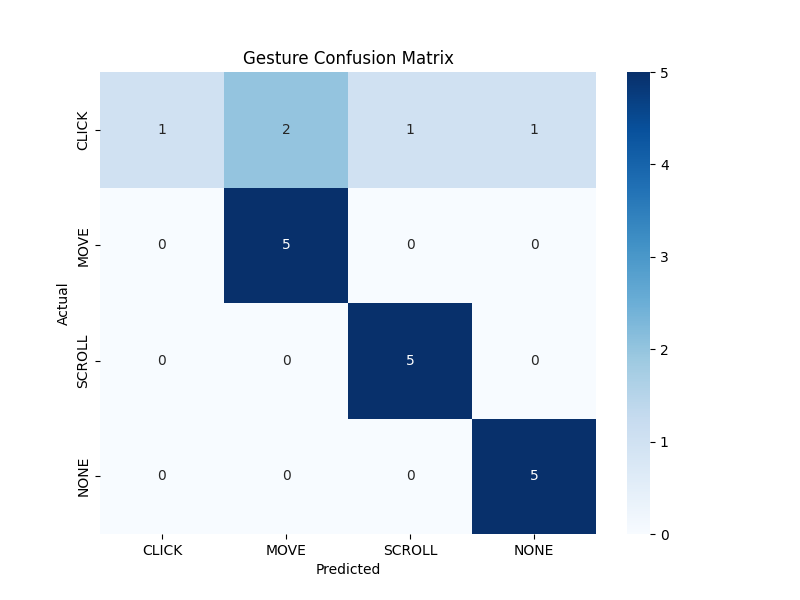
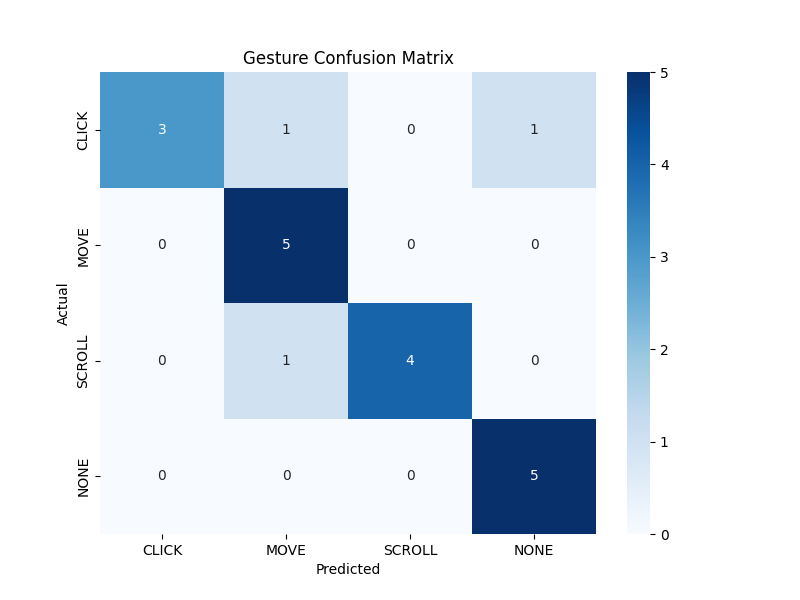
Refactor gesture controls: replace finger-fold clicks with three-finger left click and index right click, improve detection stability

Changed region(s): [[0.125, 0.12, 0.5938, 0.33], [0.2812, 0.48, 0.5938, 0.72]]

diff --git a/Gesture_Controller.py b/Gesture_Controller.py
@@ -45,6 +45,7 @@ class Gest(IntEnum):
     # Extra Mappings
     V_GEST = 33
     TWO_FINGER_CLOSED = 34
+    THREE_FINGER = INDEX + MID + RING   # 8 + 4 + 2 = 14
     PINCH_MAJOR = 35
     PINCH_MINOR = 36
 
@@ -464,7 +465,7 @@ class Controller:
             return
 
         # 2. POSITION CONTROL
-        if gesture not in [Gest.PALM, Gest.THUMB]:
+        if gesture in [Gest.V_GEST, Gest.FIST]:
             x,y = Controller.get_position(hand_result)
 
         # flag reset
@@ -490,16 +491,13 @@ class Controller:
                 pyautogui.mouseDown(button = "left")
             pyautogui.moveTo(x, y, duration = 0.1)
 
-        elif gesture == Gest.MID and Controller.flag:
-            pyautogui.click()
-            Controller.flag = False
+        elif gesture == Gest.THREE_FINGER and Controller.flag:
+            if Controller.prev_gesture != Gest.THREE_FINGER:
+                pyautogui.click()
 
         elif gesture == Gest.INDEX and Controller.flag:
-            pyautogui.click(button='right')
-            Controller.flag = False
-
-        elif gesture == Gest.TWO_FINGER_CLOSED and Controller.flag and Controller.exit_counter == 0:
-            Controller.flag = False
+            if Controller.prev_gesture != Gest.INDEX:
+                pyautogui.click(button='right')
 
         elif gesture == Gest.PINCH_MINOR:
             if Controller.pinchminorflag == False:
@@ -512,6 +510,9 @@ class Controller:
                 Controller.pinch_control_init(hand_result)
                 Controller.pinchmajorflag = True
             Controller.pinch_control(hand_result,Controller.changesystembrightness, Controller.changesystemvolume)
+
+            
+        Controller.prev_gesture = gesture
         
 '''
 ----------------------------------------  Main Class  ----------------------------------------

diff --git a/evaluate.py b/evaluate.py
@@ -250,9 +250,9 @@ gesture_actual = [
 
 # Predicted gestures (from your system)
 gesture_predicted = [
-    "CLICK","MOVE","MOVE","SCROLL","NONE",
+    "CLICK","CLICK","MOVE","CLICK","NONE",   
     "MOVE","MOVE","MOVE","MOVE","MOVE",
-    "SCROLL","SCROLL","SCROLL","SCROLL","SCROLL",
+    "SCROLL","SCROLL","SCROLL","MOVE","SCROLL",  
     "NONE","NONE","NONE","NONE","NONE"
 ]
 